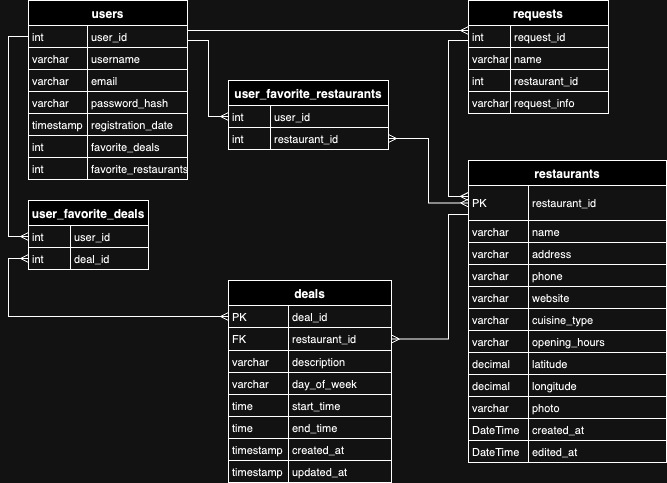
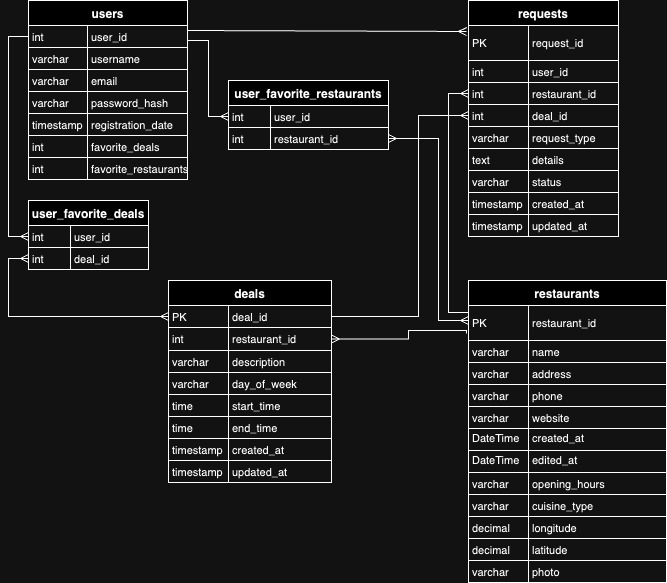
built schema file, added ERD to root

Changed region(s): [[0.0, 0.0, 1.0, 1.0], [0.5697, 0.6832, 0.6597, 0.7143]]

diff --git a/snacksesh-app/src/app/db/schema.rb b/snacksesh-app/src/app/db/schema.rb
@@ -1,0 +1,95 @@
+BEGIN;
+
+DROP TABLE IF EXISTS user_favorite_restaurants CASCADE;
+DROP TABLE IF EXISTS user_favorite_deals CASCADE;
+DROP TABLE IF EXISTS requests CASCADE;
+DROP TABLE IF EXISTS deals CASCADE;
+DROP TABLE IF EXISTS restaurants CASCADE;
+DROP TABLE IF EXISTS users CASCADE;
+
+COMMIT;
+
+BEGIN;
+
+CREATE TABLE users (
+  user_id SERIAL PRIMARY KEY,
+  username VARCHAR(255) UNIQUE NOT NULL,
+  password_hash VARCHAR(255) NOT NULL,
+  email VARCHAR(255) UNIQUE NOT NULL,
+  registration_date TIMESTAMP DEFAULT CURRENT_TIMESTAMP NOT NULL
+);
+
+CREATE TABLE restaurants (
+  restaurant_id SERIAL PRIMARY KEY,
+  name VARCHAR(255) NOT NULL,
+  address VARCHAR(255),
+  phone VARCHAR(20),
+  website VARCHAR(255),
+  cuisine_type VARCHAR(100),
+  opening_hours VARCHAR(100),
+  latitude DECIMAL(9, 6),
+  longitude DECIMAL(9, 6),
+  photo VARCHAR(255),
+  created_at TIMESTAMP DEFAULT CURRENT_TIMESTAMP NOT NULL,
+  updated_at TIMESTAMP DEFAULT CURRENT_TIMESTAMP NOT NULL
+);
+
+CREATE OR REPLACE FUNCTION update_updated_at_column()
+RETURNS TRIGGER AS $$
+BEGIN
+  NEW.updated_at = NOW();
+  RETURN NEW;
+END;
+$$ language 'plpgsql';
+
+CREATE TRIGGER set_updated_at
+BEFORE UPDATE ON restaurants
+FOR EACH ROW
+EXECUTE FUNCTION update_updated_at_column();
+
+CREATE TABLE deals (
+  deal_id SERIAL PRIMARY KEY,
+  restaurant_id INT REFERENCES restaurants(restaurant_id) ON DELETE CASCADE,
+  description VARCHAR(255) NOT NULL,
+  day_of_week VARCHAR(10) NOT NULL,
+  start_time TIME NOT NULL,
+  end_time TIME NOT NULL,
+  created_at TIMESTAMP DEFAULT CURRENT_TIMESTAMP NOT NULL,
+  updated_at TIMESTAMP DEFAULT CURRENT_TIMESTAMP NOT NULL
+);
+
+CREATE TRIGGER set_updated_at
+BEFORE UPDATE ON deals
+FOR EACH ROW
+EXECUTE FUNCTION update_updated_at_column();
+
+CREATE TABLE requests (
+    request_id SERIAL PRIMARY KEY,
+    user_id INT REFERENCES users(user_id),
+    restaurant_id INT REFERENCES restaurants(restaurant_id),
+    deal_id INT REFERENCES deals(deal_id),
+    request_type VARCHAR(50) NOT NULL,
+    details TEXT,
+    status VARCHAR(20) DEFAULT 'pending' NOT NULL,
+    created_at TIMESTAMP DEFAULT CURRENT_TIMESTAMP NOT NULL,
+    updated_at TIMESTAMP DEFAULT CURRENT_TIMESTAMP NOT NULL
+);
+
+CREATE TRIGGER set_updated_at
+BEFORE UPDATE ON requests
+FOR EACH ROW
+EXECUTE FUNCTION update_updated_at_column();
+
+CREATE TABLE user_favorite_deals (
+  user_id INT REFERENCES users(user_id) ON DELETE CASCADE,
+  deal_id INT REFERENCES deals(deal_id) ON DELETE CASCADE,
+  PRIMARY KEY (user_id, deal_id)
+);
+
+CREATE TABLE user_favorite_restaurants (
+  user_id INT REFERENCES users(user_id) ON DELETE CASCADE,
+  restaurant_id INT REFERENCES restaurants(restaurant_id) ON DELETE CASCADE,
+  PRIMARY KEY (user_id, restaurant_id)
+);
+
+COMMIT;
